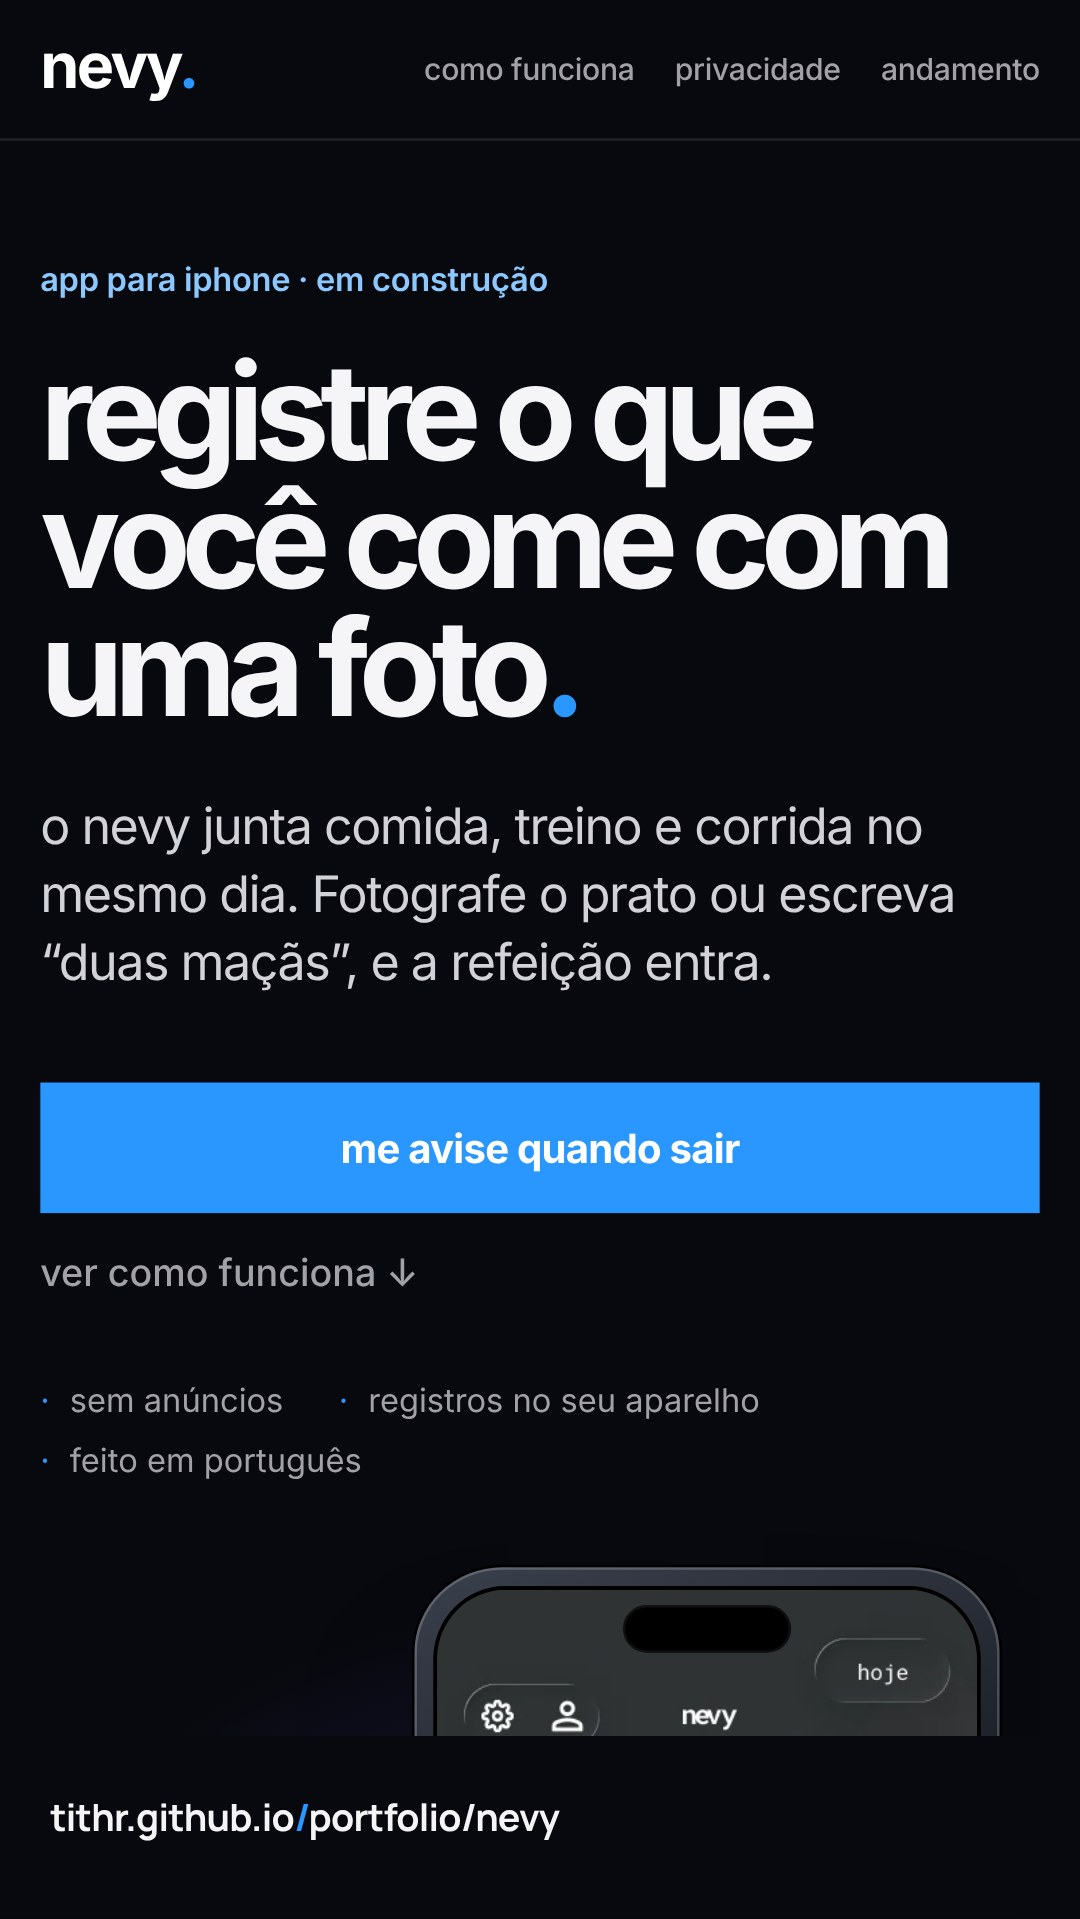
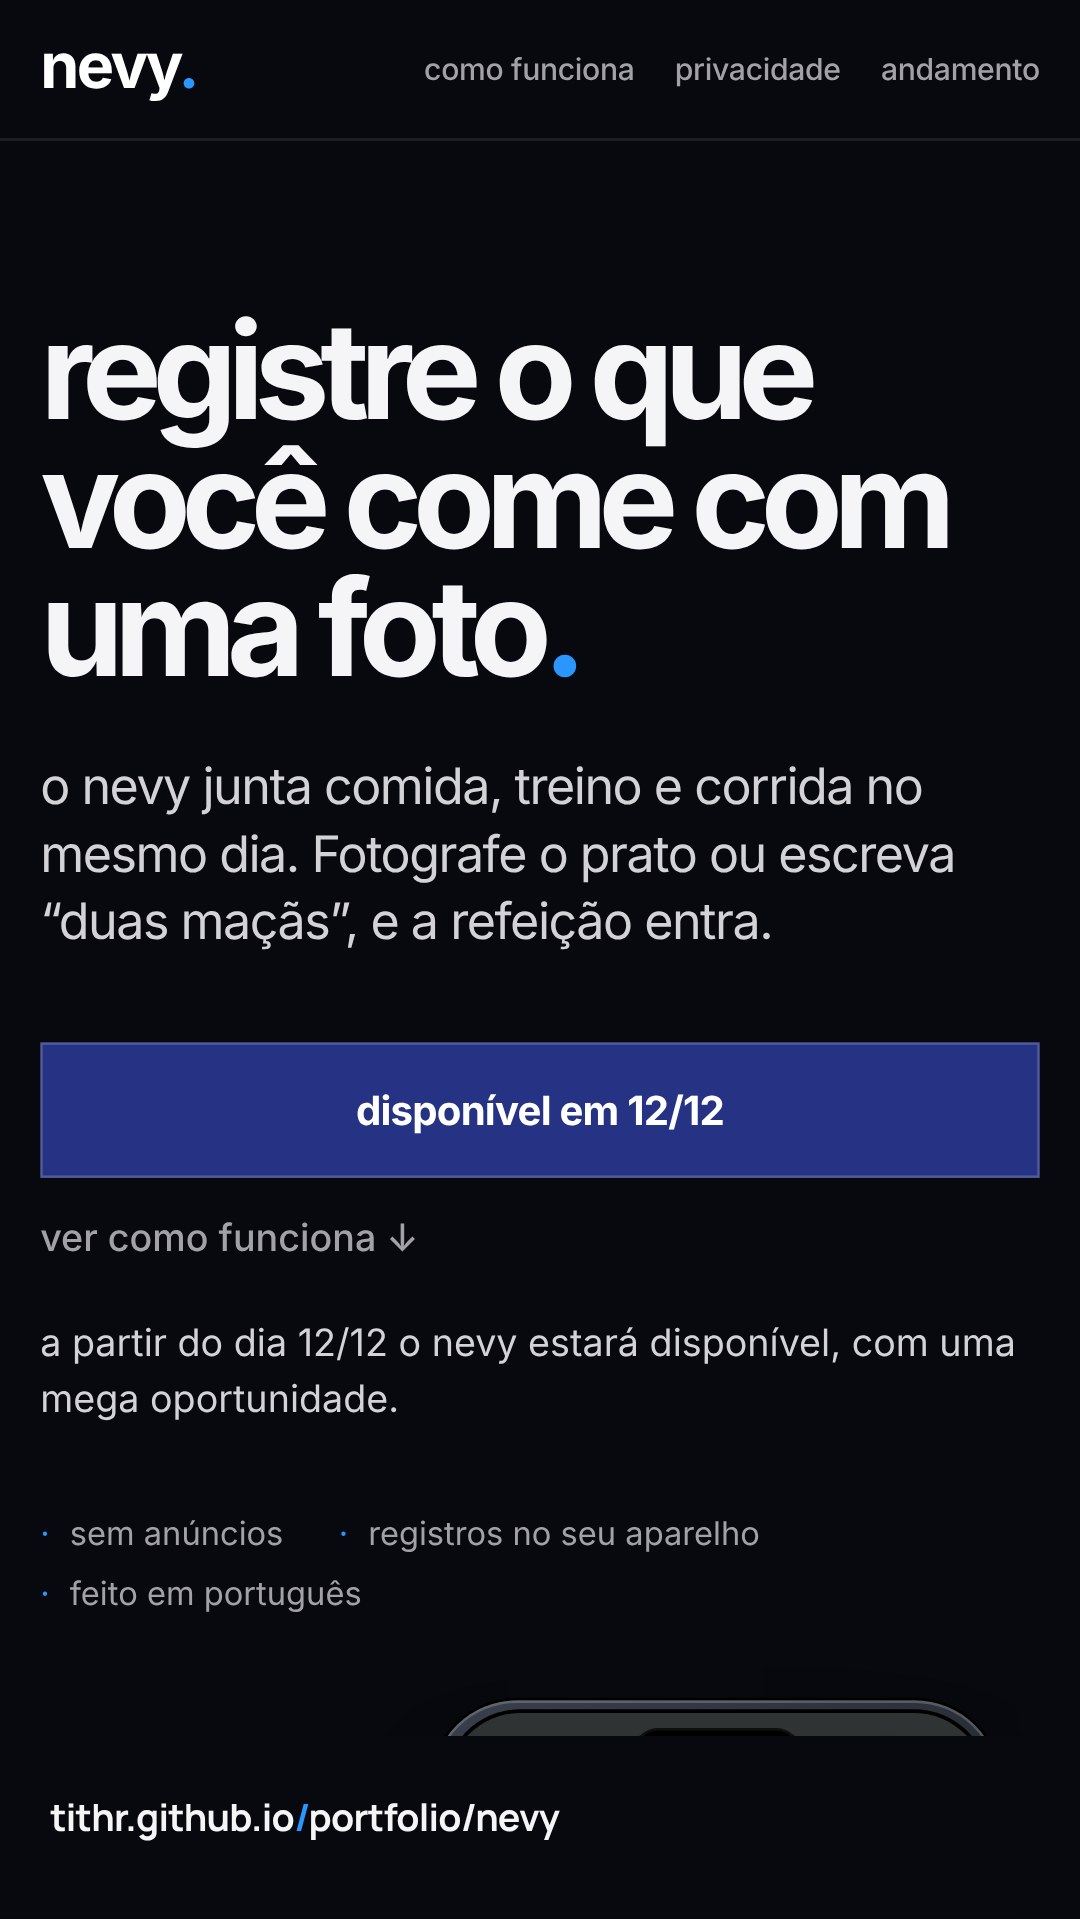
nevy landing: moldura uniforme, botões em azul nevy desativados, aviso de disponibilidade em 12/12
Claude-Session: https://claude.ai/code/session_015z2G63p8ibVhGsPnRoC111

diff --git a/nevy.html b/nevy.html
@@ -3,7 +3,7 @@
   <head>
     <meta charset="UTF-8" />
     <meta name="viewport" content="width=device-width, initial-scale=1.0" />
-    <meta name="description" data-i18n-attr="content:meta.lp" content="nevy é um app de iPhone para registrar comida, treino e corrida com poucos toques. Fotografe o prato e a refeição entra. Em construção: peça para ser avisado quando sair." />
+    <meta name="description" data-i18n-attr="content:meta.lp" content="nevy é um app de iPhone para registrar comida, treino e corrida com poucos toques. Fotografe o prato e a refeição entra. Disponível a partir de 12/12." />
     <title data-i18n="title.lp">nevy · registre o que você come com uma foto</title>
     <link rel="icon" type="image/svg+xml" href="favicon.svg" />
     <link rel="canonical" href="https://tithr.github.io/portfolio/nevy" />
@@ -13,7 +13,7 @@
     <meta property="og:locale:alternate" content="en_US" />
     <meta property="og:url" content="https://tithr.github.io/portfolio/nevy" />
     <meta property="og:title" content="nevy · registre o que você come com uma foto" />
-    <meta property="og:description" content="app de iPhone que junta comida, treino e corrida no mesmo dia. Em construção." />
+    <meta property="og:description" content="app de iPhone que junta comida, treino e corrida no mesmo dia. Disponível a partir de 12/12." />
     <meta property="og:image" content="https://tithr.github.io/portfolio/img/og/nevy.jpg" />
     <meta property="og:image:width" content="1200" />
     <meta property="og:image:height" content="630" />
@@ -22,7 +22,7 @@
     <meta name="theme-color" content="#07090e" />
     <link rel="preload" href="fonts/manrope.woff2" as="font" type="font/woff2" crossorigin />
     <link rel="preload" href="img/nevy/03-hoje.webp" as="image" type="image/webp" fetchpriority="high" />
-    <link rel="stylesheet" href="styles.css?v=41" />
+    <link rel="stylesheet" href="styles.css?v=42" />
     <script type="application/ld+json">{"@context":"https://schema.org","@type":"MobileApplication","name":"nevy","operatingSystem":"iOS","applicationCategory":"HealthApplication","inLanguage":"pt-BR","description":"App de iPhone para registrar comida, treino e corrida com poucos toques. Em desenvolvimento.","author":{"@type":"Person","name":"Tiago Rosario","url":"https://tithr.github.io/portfolio/"}}</script>
   </head>
   <body class="case-page lp">
@@ -34,7 +34,7 @@
         <a href="#privacidade" data-i18n="lp.nav.privacy">privacidade</a>
         <a href="#andamento" data-i18n="lp.nav.status">andamento</a>
       </nav>
-      <a class="status" href="#avisar" data-i18n="lp.nav.cta">me avise quando sair</a>
+      <span class="status lp-off" aria-disabled="true" data-i18n="lp.nav.off">disponível em 12/12</span>
     </header>
     <div class="lang-switch" role="group" aria-label="idioma" data-i18n-attr="aria-label:aria.lang"><button type="button" data-lang="pt" aria-pressed="true">por</button><span>/</span><button type="button" data-lang="en" aria-pressed="false">en</button></div>
 
@@ -44,9 +44,10 @@
           <h1 data-i18n="lp.hero.h">registre o que você come com uma foto<span>.</span></h1>
           <p class="case-lead" data-i18n="lp.hero.p">o nevy junta comida, treino e corrida no mesmo dia. Fotografe o prato ou escreva “duas maçãs”, e a refeição entra.</p>
           <div class="lp-cta">
-            <a class="lp-btn" href="mailto:tiagorosario345@gmail.com?subject=nevy%3A%20quero%20ser%20avisado%20quando%20sair" data-i18n="lp.cta">me avise quando sair</a>
+            <button class="lp-btn" type="button" disabled data-i18n="lp.cta.off">disponível em 12/12</button>
             <a class="lp-link" href="#como" data-i18n="lp.hero.more">ver como funciona ↓</a>
           </div>
+          <p class="lp-soon" data-i18n="lp.soon">a partir do dia 12/12 o nevy estará disponível, com uma mega oportunidade.</p>
           <ul class="lp-trust">
             <li data-i18n="lp.trust1">sem anúncios</li>
             <li data-i18n="lp.trust2">registros no seu aparelho</li>
@@ -164,9 +165,9 @@
       </section>
 
       <section class="case-next wrap" id="avisar">
-        <p class="eyebrow" data-i18n="lp.end.e">quer ser dos primeiros?</p>
-        <a href="mailto:tiagorosario345@gmail.com?subject=nevy%3A%20quero%20ser%20avisado%20quando%20sair" data-i18n="lp.end.cta">me avise quando sair<span>.</span></a>
-        <p class="lp-note" data-i18n="lp.end.note">é um e-mail direto para mim, sem cadastro. Eu aviso quando houver teste ou lançamento.</p>
+        <p class="eyebrow" data-i18n="lp.end.e">disponível em breve</p>
+        <p class="lp-big" data-i18n="lp.end.cta">a partir de 12/12<span>.</span></p>
+        <p class="lp-note" data-i18n="lp.end.note">o nevy estará disponível a partir do dia 12/12, com uma mega oportunidade.</p>
         <a class="case-more" href="nevy-case" data-i18n="lp.end.case">como o nevy foi desenhado e programado: <b>ver o case</b> →</a>
         <button class="share" type="button" data-share="img/story/nevy.jpg" data-share-url="https://tithr.github.io/portfolio/nevy"><span data-i18n="share.btn">compartilhar no story</span></button><span class="share-note" role="status" aria-live="polite"></span>
       </section>
@@ -178,7 +179,7 @@
       <a href="https://github.com/tithr" target="_blank" rel="noreferrer">github ↗</a>
       <span class="footer-note" data-i18n="footer.privacy">sem cookies. As visitas são contadas de forma anônima.</span>
     </footer>
-    <script src="i18n.js?v=12" defer></script>
+    <script src="i18n.js?v=13" defer></script>
     <script src="lenis.min.js" defer></script>
     <script src="site.js?v=2" defer></script>
   </body>

diff --git a/styles.css b/styles.css
@@ -312,8 +312,12 @@ footer a { color: var(--ink); }
 .lp-hero h1 { margin: 18px 0 24px; font-size: clamp(42px, 6.2vw, 84px); letter-spacing: -.07em; line-height: .96; }
 .lp-hero h1 span { color: var(--acid); }
 .lp-cta { display: flex; flex-wrap: wrap; align-items: center; gap: 14px 26px; margin-top: 34px; }
-.lp-btn { display: inline-block; padding: 16px 24px; background: var(--acid); color: #fff; font-size: 16px; font-weight: 700; letter-spacing: -.02em; transition: background .2s, transform .2s; }
-.lp-btn:hover { background: #4aa8ff; transform: translateY(-2px); }
+.lp-btn { display: inline-block; padding: 16px 24px; border: 1px solid rgba(255,255,255,.2); background: #263384; color: #fff; font: inherit; font-size: 16px; font-weight: 700; letter-spacing: -.02em; }
+.lp-btn:disabled { cursor: not-allowed; }
+.lp-soon { max-width: 440px; margin: 22px 0 0; color: #d2d2d7; font-size: 15px; line-height: 1.5; }
+.status.lp-off { padding: 7px 14px; text-decoration: none; color: #fff; background: #263384; border: 1px solid rgba(255,255,255,.2); cursor: default; }
+.lp-big { margin: 24px 0 0; font-size: clamp(54px, 9vw, 128px); font-weight: 700; letter-spacing: -.09em; line-height: .9; }
+.lp-big span { color: #5a6be0; }
 .lp-link { color: var(--muted); font-size: 15px; font-weight: 500; transition: color .2s; }
 .lp-link:hover { color: var(--sky); }
 .lp-trust { display: flex; flex-wrap: wrap; gap: 8px 22px; margin: 34px 0 0; padding: 0; list-style: none; color: var(--muted); font-size: 13px; }
@@ -328,6 +332,9 @@ footer a { color: var(--ink); }
 .lp .phone::before { background: linear-gradient(90deg, #1d222c, #343b49); }
 .lp .phone::after { background: linear-gradient(270deg, #1d222c, #343b49); box-shadow: 0 calc(var(--pw, 300px) * .2) 0 #232934, 0 calc(var(--pw, 300px) * .36) 0 #232934; }
 .lp .phone-screen { border-radius: 13.6% / 6.3%; box-shadow: 0 0 0 1.5px #000; }
+.lp .phone { aspect-ratio: auto; }
+.lp .phone-screen { height: auto; aspect-ratio: 402 / 874; }
+.lp .phone-screen img, .lp .scroll-track { position: absolute; left: 0; top: 0; width: 100%; height: 100%; }
 .lp-static .scroll-track img { position: absolute; left: 0; top: 0; width: 100%; height: auto; animation: none; }
 .lp-section { padding: 120px 0 0; }
 .lp-section h2 { max-width: 760px; margin: 14px 0 0; font-size: clamp(32px, 4.4vw, 58px); font-weight: 700; letter-spacing: -.065em; line-height: 1; }

diff --git a/i18n.js b/i18n.js
@@ -4,15 +4,16 @@
     'meta.index': 'portfolio of Tiago Rosario, a Computer Science student who designs and codes. Featuring nevy, an iOS app in progress.',
     'meta.nevy': 'nevy: an iOS app in progress to log meals with a photo. Case by Tiago Rosario.',
     'title.lp': 'nevy · log what you eat with a photo',
-    'meta.lp': 'nevy is an iPhone app to log food, workouts and runs in a few taps. Take a photo of your plate and the meal is in. In progress: ask to be told when it is out.',
+    'meta.lp': 'nevy is an iPhone app to log food, workouts and runs in a few taps. Take a photo of your plate and the meal is in. Available from 12/12.',
     'lp.aria.top': 'nevy, back to the top',
     'lp.nav.how': 'how it works',
     'lp.nav.privacy': 'privacy',
     'lp.nav.status': 'progress',
-    'lp.nav.cta': 'tell me when it is out',
+    'lp.nav.off': 'available on 12/12',
     'lp.hero.h': 'log what you eat with a photo<span>.</span>',
     'lp.hero.p': 'nevy brings food, workouts and runs into the same day. Take a photo of the plate or type “two apples”, and the meal is in.',
-    'lp.cta': 'tell me when it is out',
+    'lp.cta.off': 'available on 12/12',
+    'lp.soon': 'from 12/12, nevy will be available, with a mega opportunity.',
     'lp.hero.more': 'see how it works ↓',
     'lp.trust1': 'no ads',
     'lp.trust2': 'records stay on your device',
@@ -58,9 +59,9 @@
     'lp.build.e': 'in progress',
     'lp.build.h': 'where the project is.',
     'lp.build.p': 'nevy is not on the App Store yet. It is in development and being tested on the iPhone, and the screens on this page are the real app, running. Some things will still change before launch.',
-    'lp.end.e': 'want to be one of the first?',
-    'lp.end.cta': 'tell me when it is out<span>.</span>',
-    'lp.end.note': 'it is a direct email to me, no sign-up. I will let you know when there is a test or a launch.',
+    'lp.end.e': 'available soon',
+    'lp.end.cta': 'from 12/12<span>.</span>',
+    'lp.end.note': 'nevy will be available from 12/12, with a mega opportunity.',
     'lp.end.case': 'how nevy was designed and coded: <b>see the case</b> →',
     'lp.foot.by': 'nevy, by <a href="./">Tiago Rosario</a>',
     'title.nevy': 'nevy, the case · Tiago Rosario',

diff --git a/primeiro-commit.html b/primeiro-commit.html
@@ -21,7 +21,7 @@
     <meta name="twitter:card" content="summary_large_image" />
     <meta name="theme-color" content="#07090e" />
     <link rel="preload" href="fonts/manrope.woff2" as="font" type="font/woff2" crossorigin />
-    <link rel="stylesheet" href="styles.css?v=41" />
+    <link rel="stylesheet" href="styles.css?v=42" />
   </head>
   <body class="case-page">
     <a class="skip" href="#conteudo" data-i18n="skip">pular para o conteúdo</a>
@@ -176,7 +176,7 @@ git push -u origin main</code><button type="button" class="copy" data-i18n="pc.c
       <a href="https://github.com/tithr" target="_blank" rel="noreferrer">github ↗</a>
       <span class="footer-note" data-i18n="footer.privacy">sem cookies. As visitas são contadas de forma anônima.</span>
     </footer>
-    <script src="i18n.js?v=12"></script>
+    <script src="i18n.js?v=13"></script>
     <script src="lenis.min.js"></script>
     <script src="site.js?v=2"></script>
     <script>

diff --git a/nevy-case.html b/nevy-case.html
@@ -21,7 +21,7 @@
     <meta name="twitter:card" content="summary_large_image" />
     <meta name="theme-color" content="#07090e" />
     <link rel="preload" href="fonts/manrope.woff2" as="font" type="font/woff2" crossorigin />
-    <link rel="stylesheet" href="styles.css?v=41" />
+    <link rel="stylesheet" href="styles.css?v=42" />
   </head>
   <body class="case-page">
     <a class="skip" href="#conteudo" data-i18n="skip">pular para o conteúdo</a>
@@ -212,7 +212,7 @@ let adjusted = max(daily * profile.goal.factor, basal)</code></pre>
       <a href="https://github.com/tithr" target="_blank" rel="noreferrer">github ↗</a>
       <span class="footer-note" data-i18n="footer.privacy">sem cookies. As visitas são contadas de forma anônima.</span>
     </footer>
-    <script src="i18n.js?v=12"></script>
+    <script src="i18n.js?v=13"></script>
     <script src="lenis.min.js"></script>
     <script src="site.js?v=2"></script>
   </body>

diff --git a/404.html b/404.html
@@ -8,7 +8,7 @@
     <meta name="theme-color" content="#07090e" />
     <link rel="icon" type="image/svg+xml" href="/portfolio/favicon.svg" />
     <style>@font-face { font-family: Manrope; font-weight: 200 800; font-display: swap; src: url(/portfolio/fonts/manrope.woff2) format("woff2"); }</style>
-    <link rel="stylesheet" href="/portfolio/styles.css?v=41" />
+    <link rel="stylesheet" href="/portfolio/styles.css?v=42" />
   </head>
   <body class="case-page">
     <a class="skip" href="#conteudo" data-i18n="skip">pular para o conteúdo</a>
@@ -36,6 +36,6 @@
       <span data-i18n="footer.made">feito em minúsculas</span>
       <a href="https://github.com/tithr" target="_blank" rel="noreferrer">github ↗</a>
     </footer>
-    <script src="/portfolio/i18n.js?v=12"></script>
+    <script src="/portfolio/i18n.js?v=13"></script>
   </body>
 </html>

diff --git a/index.html b/index.html
@@ -21,7 +21,7 @@
     <meta name="theme-color" content="#07090e" />
     <link rel="icon" type="image/svg+xml" href="favicon.svg" />
     <link rel="preload" href="fonts/manrope.woff2" as="font" type="font/woff2" crossorigin />
-    <link rel="stylesheet" href="styles.css?v=41" />
+    <link rel="stylesheet" href="styles.css?v=42" />
     <script type="application/ld+json">
       {
         "@context": "https://schema.org",
@@ -116,7 +116,7 @@
       <a href="https://github.com/tithr" target="_blank" rel="noreferrer">github ↗</a>
       <span class="footer-note" data-i18n="footer.privacy">sem cookies. As visitas são contadas de forma anônima.</span>
     </footer>
-    <script src="i18n.js?v=12"></script>
+    <script src="i18n.js?v=13"></script>
     <script src="lenis.min.js"></script>
     <script src="site.js?v=2"></script>
   </body>
